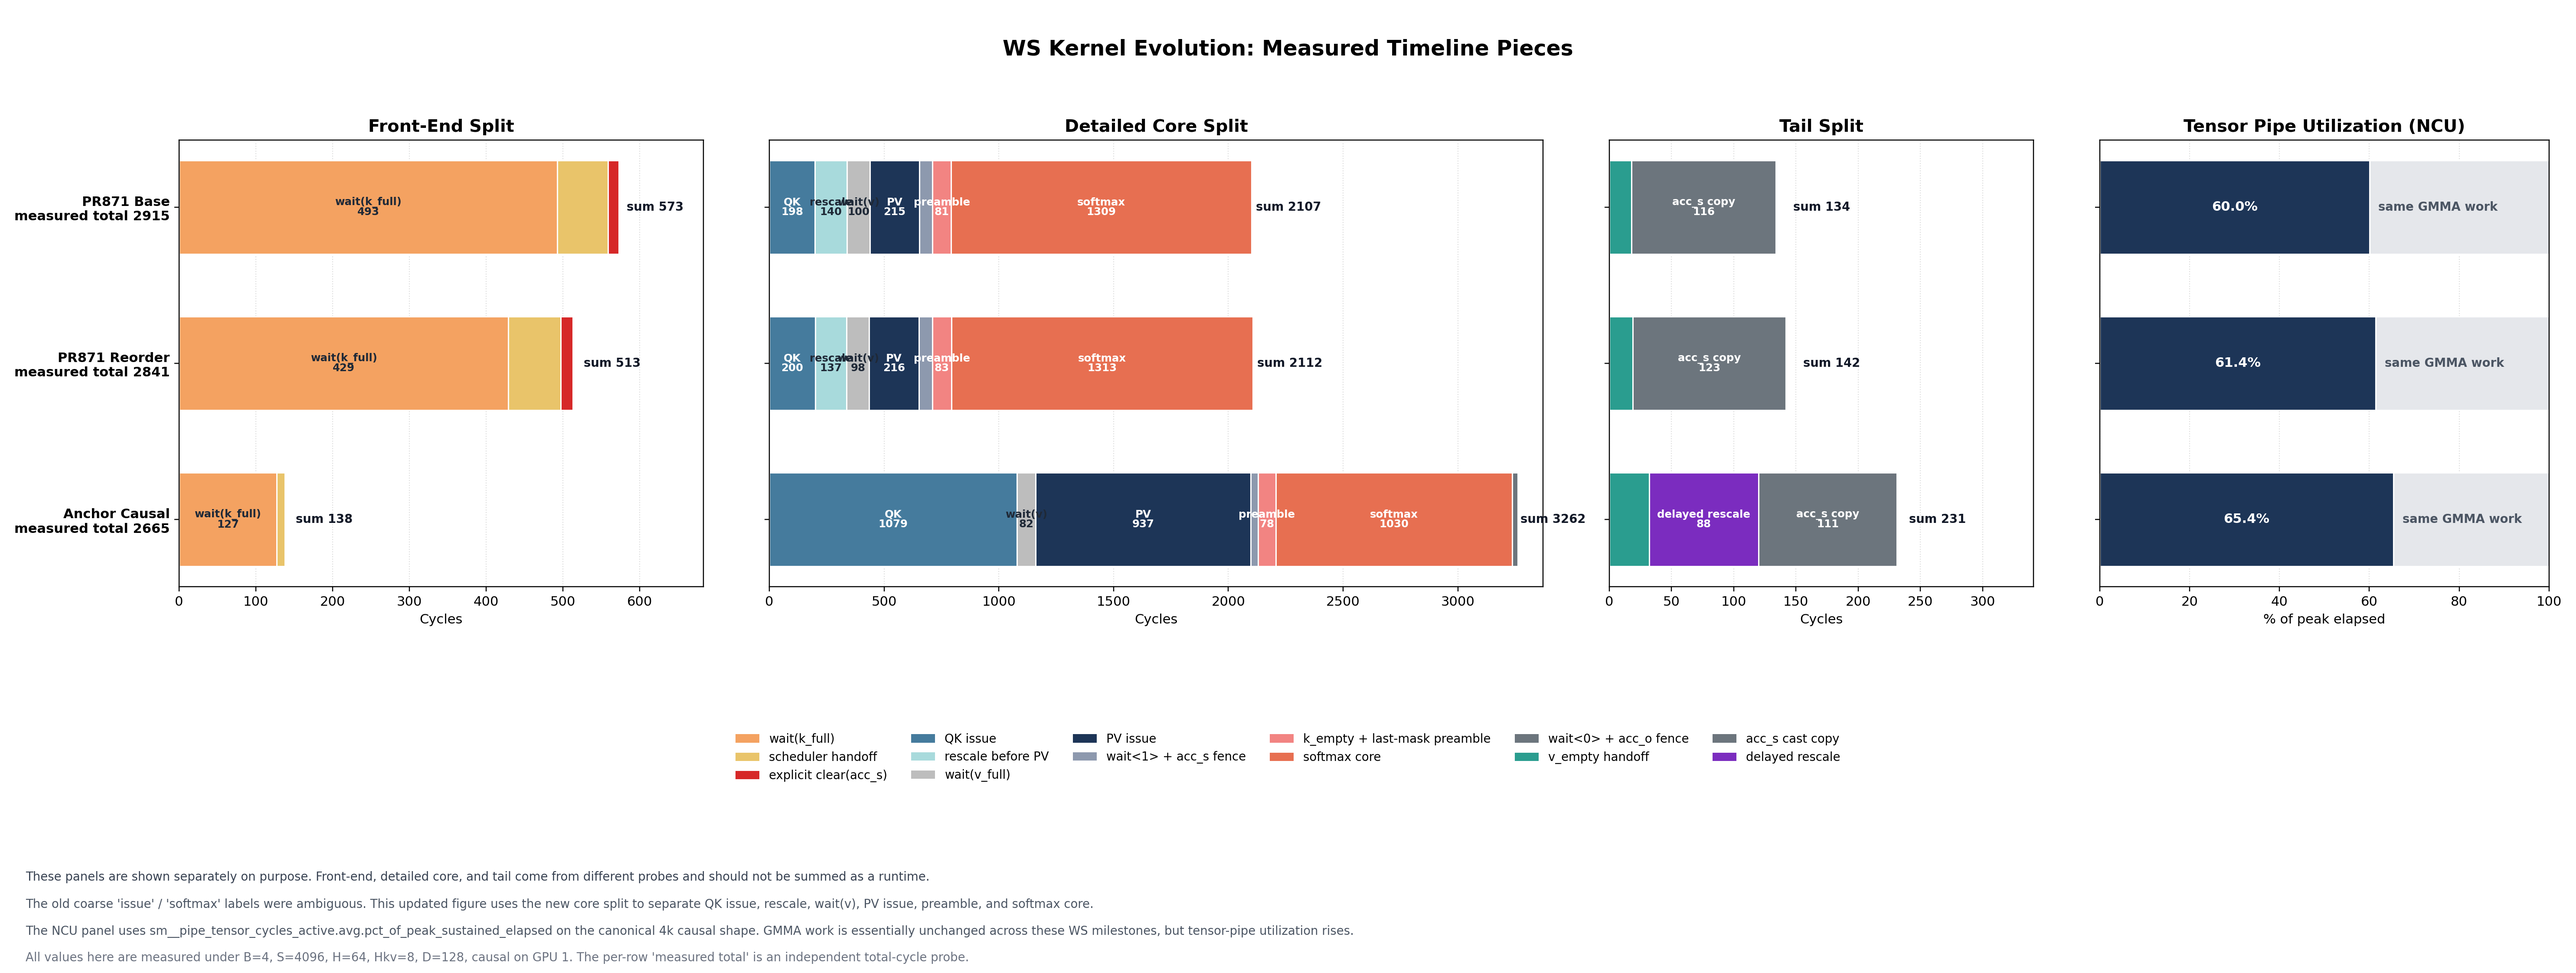
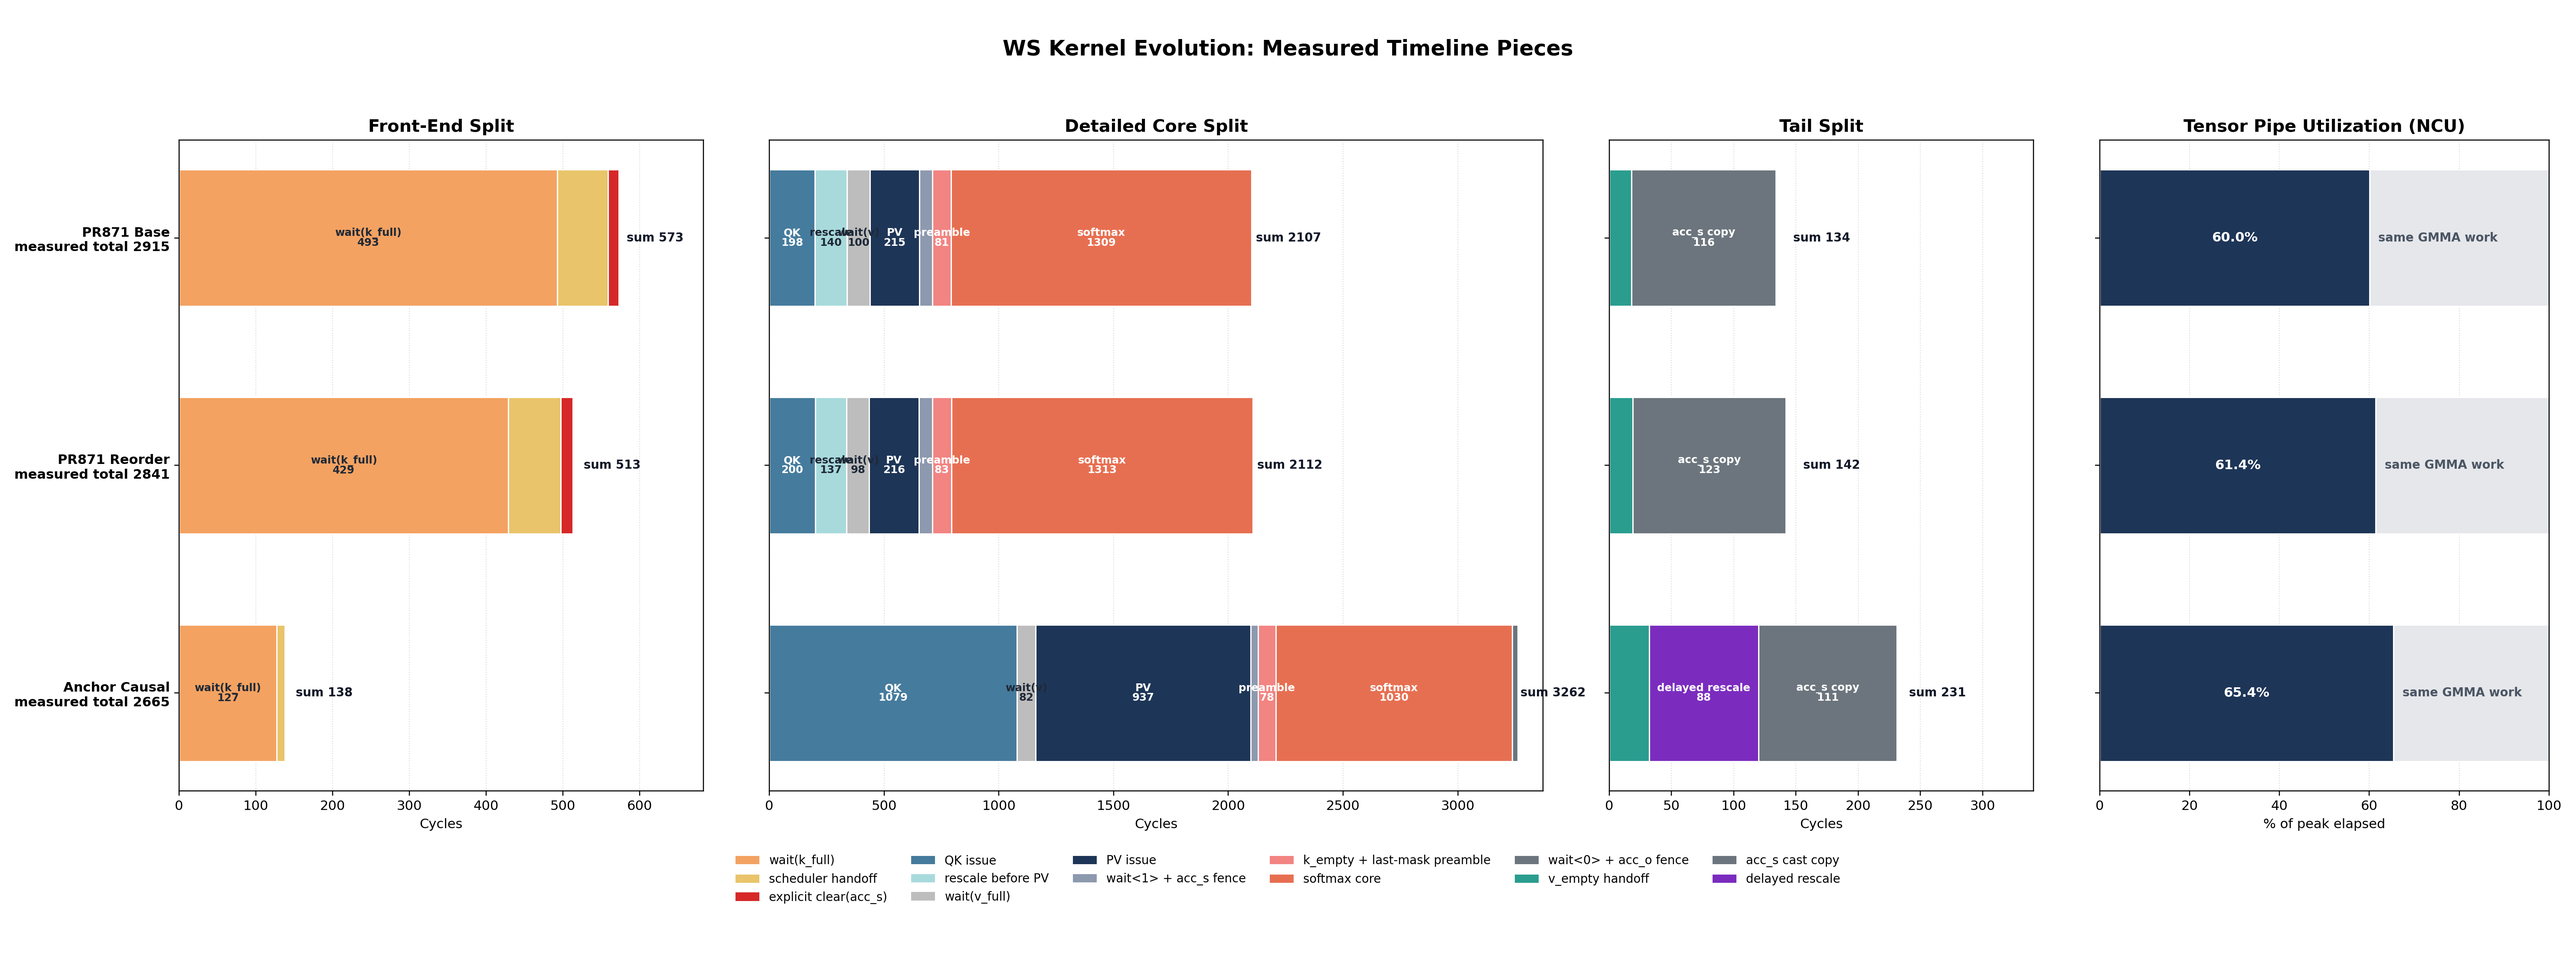
docs: move stitched timeline notes into figure text

diff --git a/reports/ws-kernel-evolution/README.md b/reports/ws-kernel-evolution/README.md
@@ -370,6 +370,14 @@ anchor's `1030`, and total time improves from `2841` to `2716`.
 figure highlights which hot windows are actually reshaped by the final
 register-flow cleanup on top of the earlier WS and locality improvements.*
 
+Figure note: the front-end, detailed core, and tail panels come from different
+probes and should not be summed as a runtime. The updated core split is meant
+to remove the ambiguity of the older coarse `issue` / `softmax` labels by
+separating `QK`, rescale, `wait(v)`, `PV`, preamble, and softmax core. The NCU
+panel uses `sm__pipe_tensor_cycles_active.avg.pct_of_peak_sustained_elapsed` on
+the canonical `4k` causal shape; GMMA work is essentially unchanged across
+these WS milestones, but tensor-pipe utilization rises.
+
 The codegen evidence makes the mechanism concrete. At the generated CUDA level,
 the `QK` loops still look broadly similar across `reorder`,
 `delayed-rescale-only`, and `anchor`. But the generated SASS is very different:
